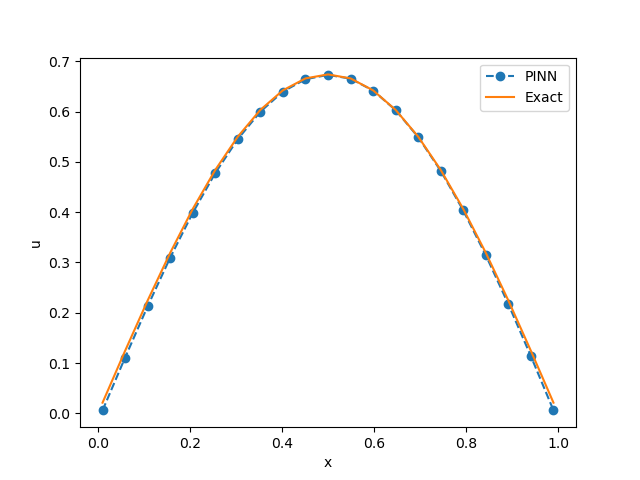
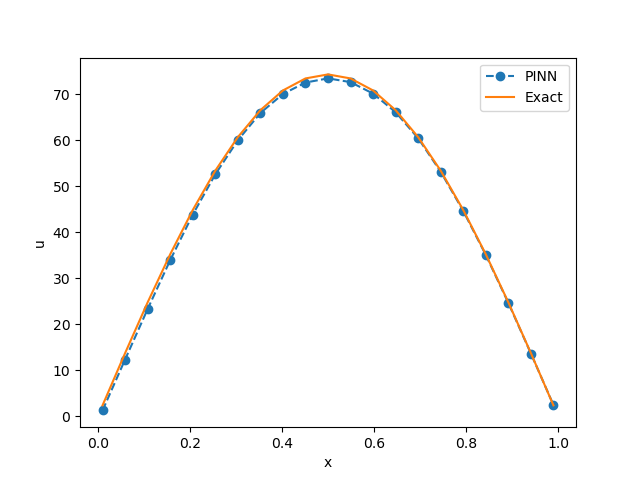
Ispravljano

diff --git a/toplota/2-stap.rst b/toplota/2-stap.rst
@@ -17,7 +17,7 @@
 Решавање методом коначних разлика (МКР)
 -----------------------------------------
 
-Парцијална диференцијална једначина :math:numref:`eq:toplota1` уз претпоставку да је :math:`\alpha=1` моделује температуру у било којој тачки штапа у било ком временском тренутку према :cite:t:`recktenwald2004finite`. Ова једначина се решава методом коначних разлика која даје апроксимацију решења за распоред температуре, примењујући просторну и временску дискретизацију. Програмска имплементација решења чува температуру сваке тачке дискретизације у дводимензионој матрици. Сваки ред садржи температурну дистрибуцију штапа у неком тренутку времена. Штап је подељен на *n* делова дужине *h*, па стога сваки ред има *n+1* елемената. Што веће *n*, мања је грешка апрокцимације. Време од 0 до *T* је подељено у *m* дискретних интервала дужине *k*, па стога матрица има *m+1* редова, :numref:`fdheat2`.
+Парцијална диференцијална једначина :math:numref:`eq:toplota1` моделује температуру у било којој тачки штапа у било ком временском тренутку према :cite:t:`recktenwald2004finite`. Ова једначина се решава методом коначних разлика која даје апроксимацију решења за распоред температуре, примењујући просторну и временску дискретизацију. Програмска имплементација решења чува температуру сваке тачке дискретизације у дводимензионој матрици. Сваки ред садржи температурну дистрибуцију штапа у неком тренутку времена. Штап је подељен на *n* делова дужине *h*, па стога сваки ред има *n+1* елемената. Што веће *n*, мања је грешка апрокцимације. Време од 0 до *T* је подељено у *m* дискретних интервала дужине *k*, па стога матрица има *m+1* редова, :numref:`fdheat2`.
 
 .. _fdheat1:
 
@@ -44,7 +44,7 @@
 
 .. math::
 
-    R = \frac{k}{h^2}.
+    R = \alpha \frac{k}{h^2}.
 
 Целокупна анализа различитих експлицитних и имплицитних метода дата је на поменутој референци, а кључни део кода у програмском језику Пајтон имплемениран је на следећи начин:
 
@@ -97,7 +97,7 @@
 потражићемо помоћу ФЗНН приступа. Иако је могуће да методе имплементирамо директно као :cite:t:`raissi2019physics` користећи оквира за дубоко учење као што је `Tensorflow <https://www.tensorflow.org/>`_, користићемо помоћ додатних библиотека које додатно апстрахују ФЗНН ентитете и омогућавају кориснику да се фокусира на проблема који решава. Овај пример решићемо користећи бибиотеку `SCIANN <https://www.sciann.com/>`_ аутора :cite:t:`haghighat2021sciann`. Поступак решавања објаснићемо кроз програмски код:
 
 .. code-block:: python
-   :caption: Једнодимензионо провођење топлоте методом ФЗНН
+   :caption: ФЗНН - провођење топлоте
    :linenos:
 
     import numpy as np
@@ -108,13 +108,13 @@
     x = sn.Variable('x')
     t = sn.Variable('t')
     u = sn.Functional('u', [x,t], 3*[20], 'tanh')
-    alpha = 0.4
+    alpha = 0.3
 
     L1 = diff(u, t) - alpha * diff(u, x, order=2)
 
     TOLX = 0.011
     TOLT = 0.0011
-    C1 = (1-sign(t - TOLT)) * (u - sin(pi*x))
+    C1 = (1-sign(t - TOLT)) * (u - 100*sin(pi*x))
     C2 = (1-sign(x - (0+TOLX))) * (u)
     C3 = (1+sign(x - (1-TOLX))) * (u)
 
